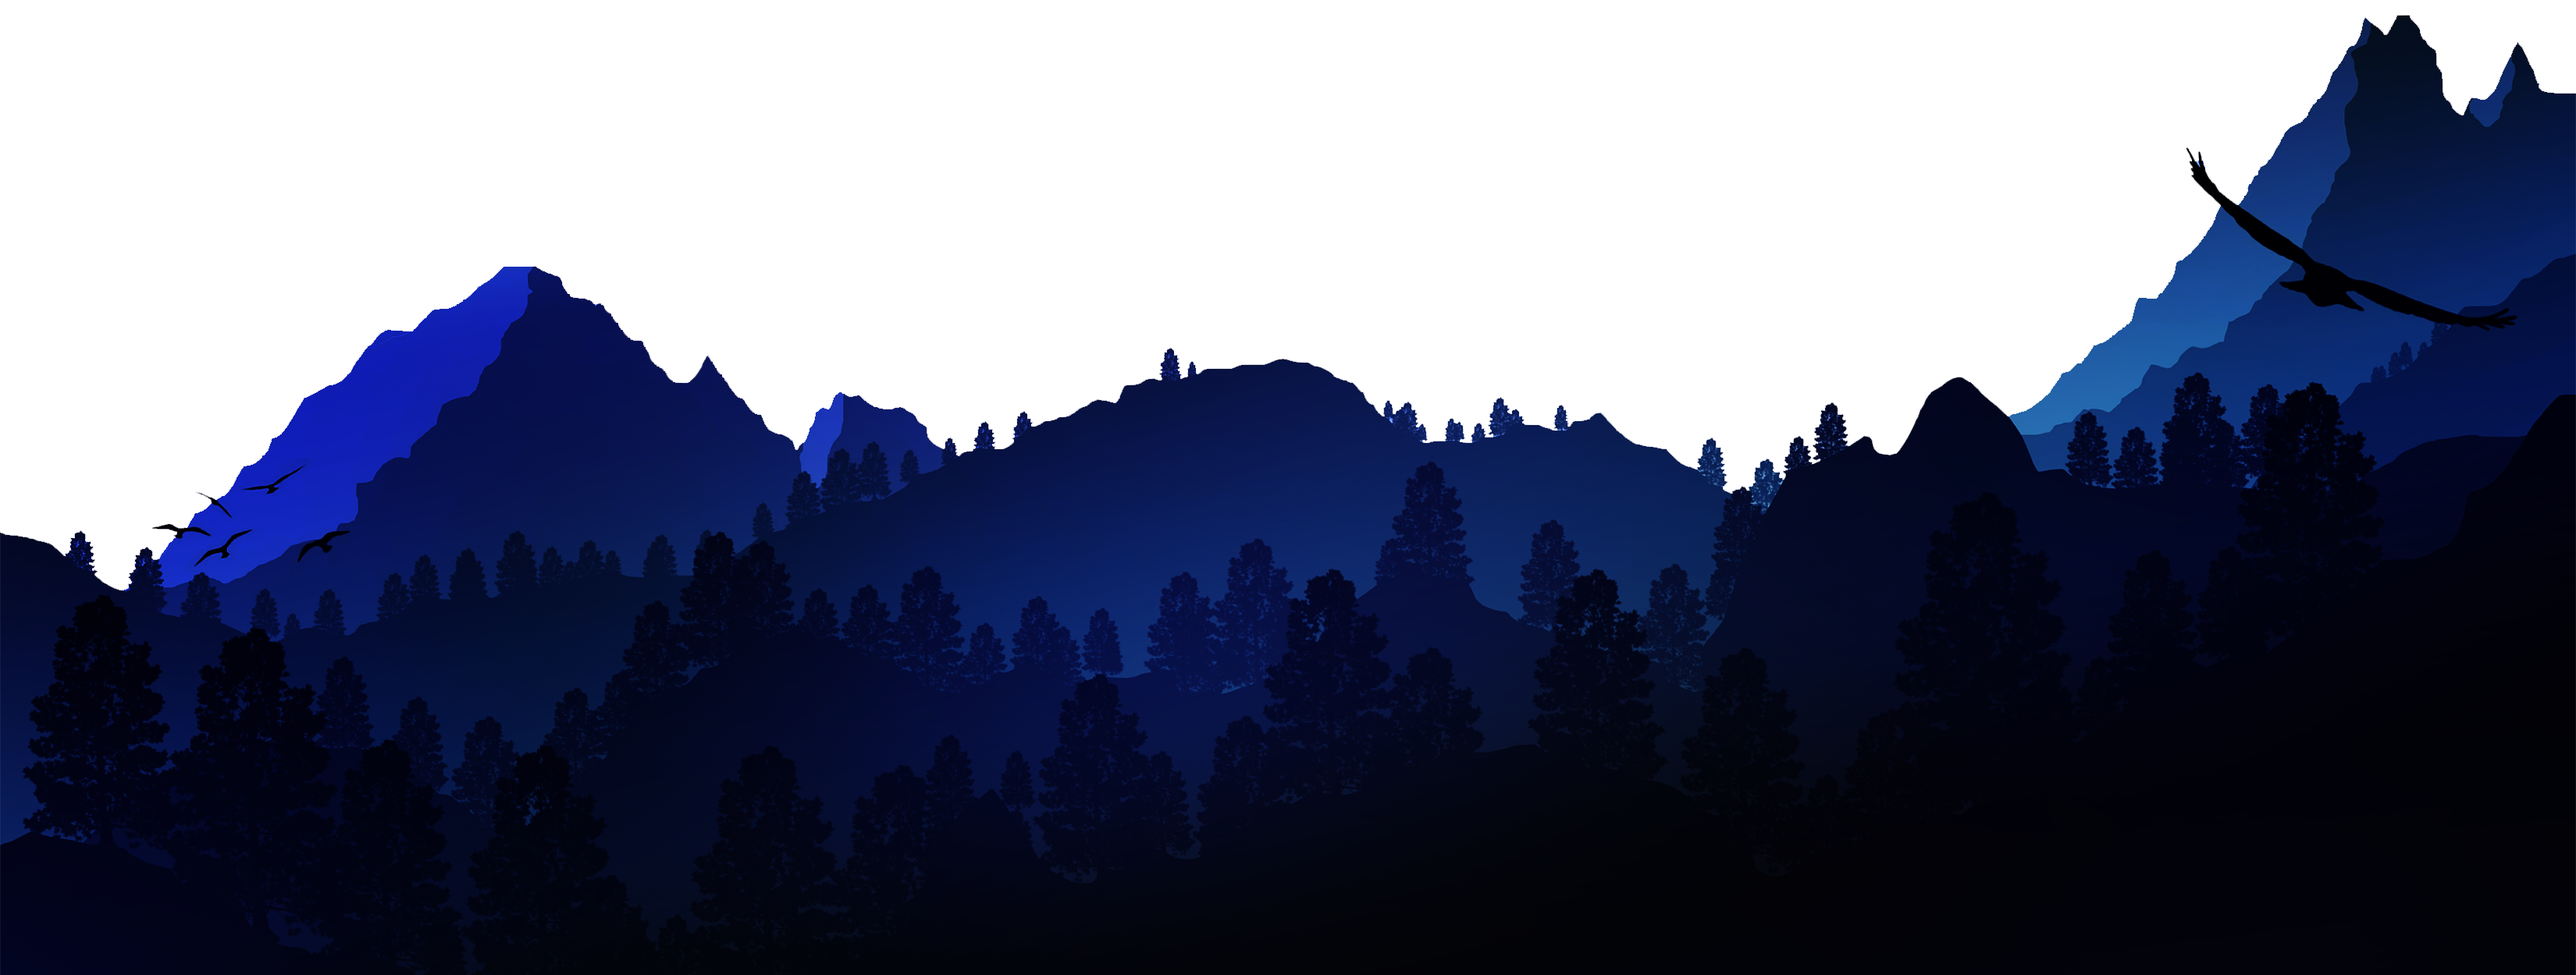
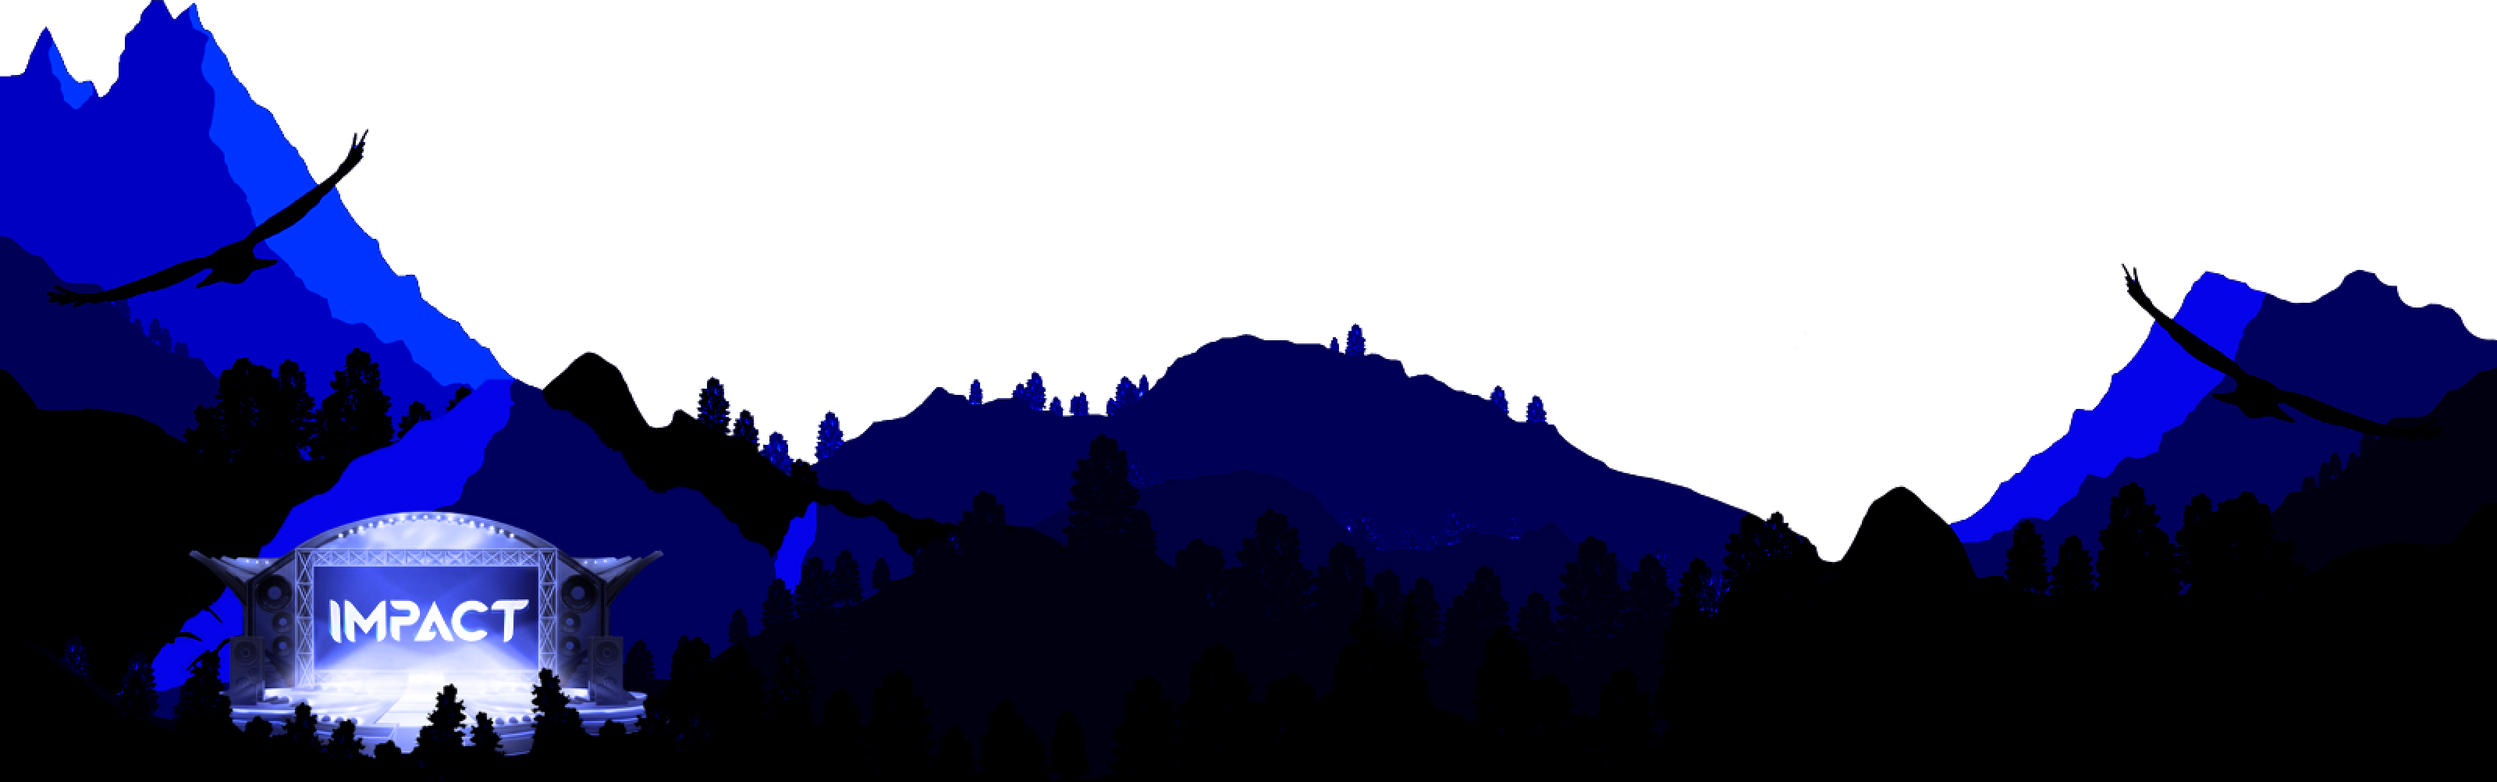
new background and mountains

diff --git a/src/pages/AboutPage/index.tsx b/src/pages/AboutPage/index.tsx
@@ -11,26 +11,25 @@ export default () => {
     <div>
       <PhotoDiv className={styles.MainStage}>
         <div className={styles.Wrapper}>
+          <img
+            className={styles.Wordmark}
+            src="/wordmark.png"
+            alt="Impact Wordmark Logo"
+          />
           <Section>
             <div className={styles.SectionHeading}>
-              <H1>
-                impact Festival is a 3 day Transformational Arts & Music
-                Experience
-              </H1>
+              <H1>Your favorite charity festival is back</H1>
+              <H1>and better than ever!</H1>
             </div>
             <P>
-              With 3 Stages, art installations and a variety of music, there is
-              something for everyone.
+              Imagine a festival that has all of your favorite bass bumpin
+              tunes, interactive art, workshops, games and more. Now imagine
+              that attending this festival meant you were changing the world! Is
+              this too good to be true?
             </P>
             <P>
-              In 2019, IMPACT raised $40,000 for WE Global Water Charities and
-              True North Aid - First Nations Harm Reduction. With the assistance
-              of everyone involved, we were able to achieve something incredible
-              that will continue to make IMPACT for years to come.
-            </P>
-            <P>
-              Become part of our IMPACT Tribe and help us create a better world
-              for tomorrow!
+              Attend to IMPACT Festival 2020 - Have the time of your life while
+              changing lives around the world.
             </P>
           </Section>
           <Section>

diff --git a/src/pages/AboutPage/index.module.scss b/src/pages/AboutPage/index.module.scss
@@ -3,6 +3,11 @@
 .Wrapper {
   max-width: 75%;
   padding-bottom: $footer-height-small;
+  display: flex;
+  flex-direction: column;
+  justify-content: center;
+  align-items: center;
+  margin-top: 95px;
 }
 
 .MainStage {
@@ -24,6 +29,12 @@
   &:hover {
     transform: scale(1.02);
   }
+}
+
+.Wordmark {
+  width: 90%;
+  max-width: 500px;
+  margin-bottom: 15px;
 }
 
 .SectionHeading {

diff --git a/src/styles/styles.module.scss b/src/styles/styles.module.scss
@@ -1,7 +1,8 @@
 body {
   padding: 0;
   margin: 0;
-  background: url(/lonelyspace.jpg) black;
+  background: linear-gradient(rgba(0, 0, 0, 0.5), rgba(0, 0, 0, 0.5)),
+    url(/lonelyspace.png);
   background-repeat: no-repeat;
   background-size: cover;
   animation: fadein 1s;

diff --git a/src/components/Nav/index.module.scss b/src/components/Nav/index.module.scss
@@ -14,7 +14,7 @@
   width: 100%;
   position: absolute;
   z-index: 9998;
-  background: url(/lonelyspace.jpg) no-repeat;
+  background: url(/lonelyspace.png) no-repeat;
   background-size: cover;
   background-position: bottom;
   visibility: hidden;

diff --git a/src/App.module.scss b/src/App.module.scss
@@ -3,7 +3,7 @@
 body {
   padding: 0;
   margin: 0;
-  background: url(/lonelyspace.jpg) black;
+  background: url(/lonelyspace.png) black;
   background-repeat: no-repeat;
   background-size: cover;
   animation: fadein 1s;

diff --git a/src/components/Footer/Form/index.module.scss b/src/components/Footer/Form/index.module.scss
@@ -40,7 +40,7 @@
   color: whitesmoke;
   font-size: 16px;
   padding: 3px;
-  background-color: $ebony-black;
+  background-color: transparent;
   outline-color: $bayoux-blue;
   font-family: $roboto;
   padding-left: 12px;

diff --git a/src/components/Footer/index.module.scss b/src/components/Footer/index.module.scss
@@ -41,6 +41,7 @@
     flex-direction: row;
     width: 100%;
     max-width: 1100px;
+    margin-left: 24px;
   }
 
   .InTouch {
